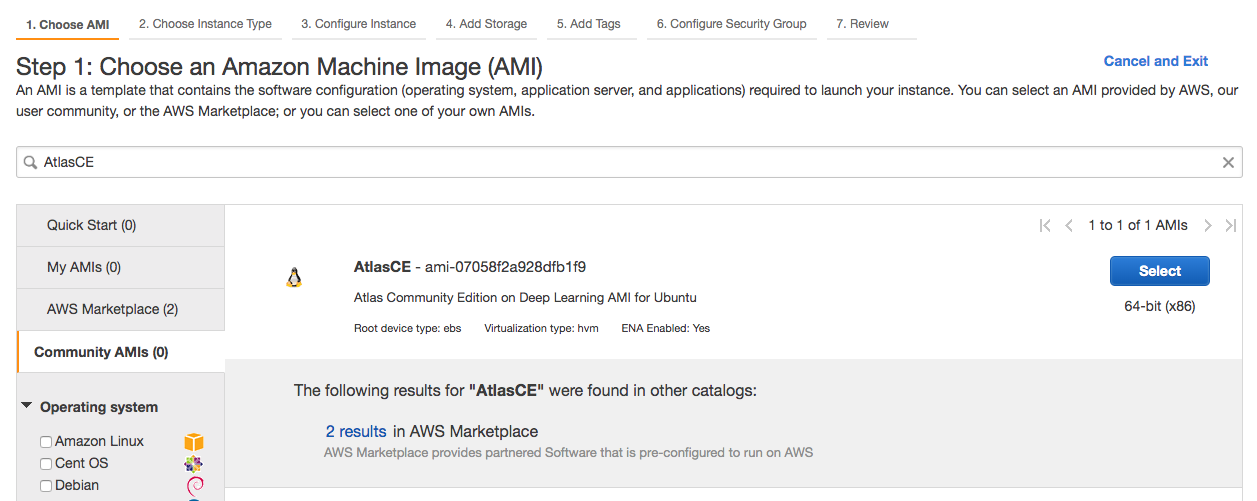
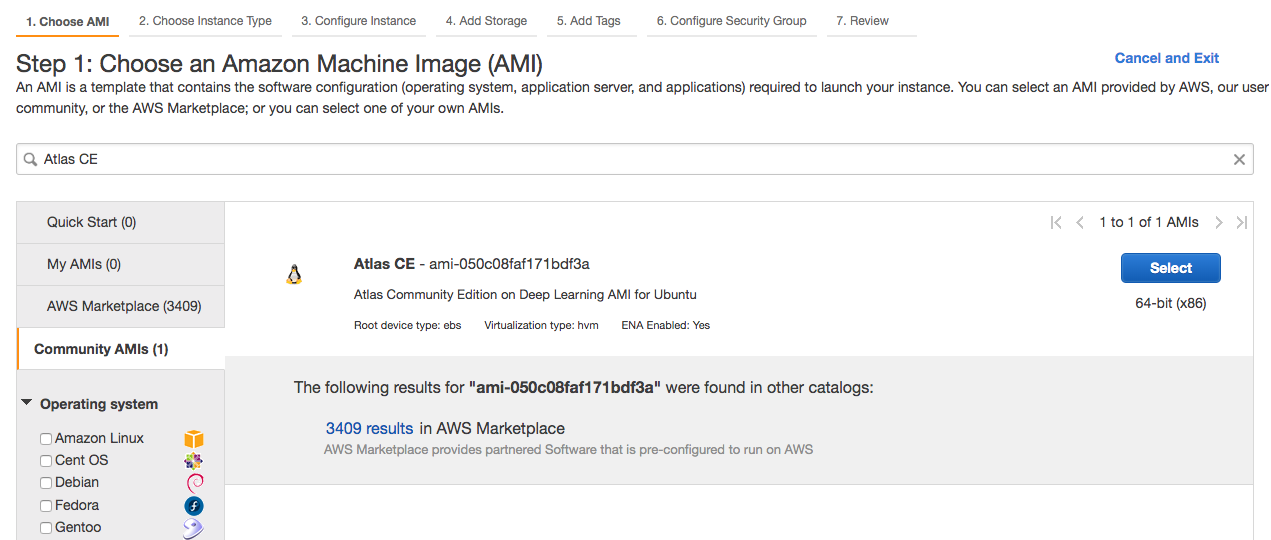
[pl] update aws walkthrough to include new ami details

diff --git a/docs/api_docs/sources/atlas-on-aws.md b/docs/api_docs/sources/atlas-on-aws.md
@@ -9,16 +9,16 @@ Requirements
 
 ## Create instance
 
-First let's go to the AWS developer console, to create a new instance: [https://aws.amazon.com/console/](https://aws.amazon.com/console/)
+First let's go to the AWS developer console, sign in, and then we'll create a new instance: [https://aws.amazon.com/console/](https://aws.amazon.com/console/)
 
-Click the **"Create Instance"** button to start setup.
+Go to Services > EC2, then click the **"Launch Instance"** button to start setup.
 
 ### Step 1: Choose an Amazon Machine Image (AMI)
 
 Let's use the custom Atlas CE AMI, to do this:
 
 * Select "Community AMIs" on the left sidebar
-* Search for "AtlasCE"
+* Search for "Atlas CE"
 * Select the AMI that says "Atlas Community Edition on Deep Learning AMI for Ubuntu
 "
 
@@ -39,7 +39,8 @@ Make sure to click **"Next: Configure Instance Details"** to continue provisioni
 
 ### Step 3: Configure Instance Details
 
-* No changes here, just click **"Next: Add Storage"**
+* If your instance does require additional configuration adjust as needed
+* Otherwise there are no changes needed here, just click **"Next: Add Storage"**
 
 ### Step 4: Add Storage
 
@@ -72,17 +73,21 @@ Our instance setup should now look similar to the below.
 
 ![Review ](../../assets/images/aws-review-instance-launch.png)
 
-Click "Launch" which should then ask you to create a new key pair. Select "Create a new key pair" and give it the name "atlas-ce", and then download the key pair, then click Launch Instances".
+Click "Launch" which should then ask you to create a new key pair. Select "Create a new key pair" and give it the name "atlas-ce", and then download the key pair, then click Launch Instances". It should then redirect you to the Launch Status page. Click on your instance name to go to the **Instances** page, which you can then find the IPv4 address of the instance in the lower **Description** panel.
 
-You should then be able to use your download `.pem` key to then SSH into the instance to check that everything is setup.
+![aws now launching](../../assets/images/aws-now-launching.png)
+
+You should then be able to use your downloaded `.pem` key to then SSH into the instance to check that everything is setup.
 
 Be sure to run `chmod 400 <key_name>.pem` on your key before SSH'ing to give it the proper permissions. We also recommend that you move the key to your `~/.ssh/` directory.
  
 `ssh -i /path/to/key/<key_name>.pem  ubuntu@ipv4.of.ec2.instance`
 
-You should also now be able to see the GUI. In your browser go `<ipv4.of.ec2.instance>:5555` and you should see the Atlas CE project page. It'll be empty, so why not start by creating your first project.
+When you first SSH in, the instance will run a few commands which includes activating a conda environment that contains `atlas-server` and `foundations`. It also runs `atlas-server` so all the services for Atlas CE are running.
 
-### Run your first Atlas CE job
+You should also now be able to see the GUI. In your browser go `<ipv4.of.ec2.instance>:5555` and you should see the Atlas CE project page. It'll be empty, so let's start by creating our first project.
+
+### Run our first Atlas CE job
 
 If this is your first time using Atlas CE, you can try run a simple job with the following steps. Or you can just skip ahead to setting up AWS to remotely work with VSCode below.
 
